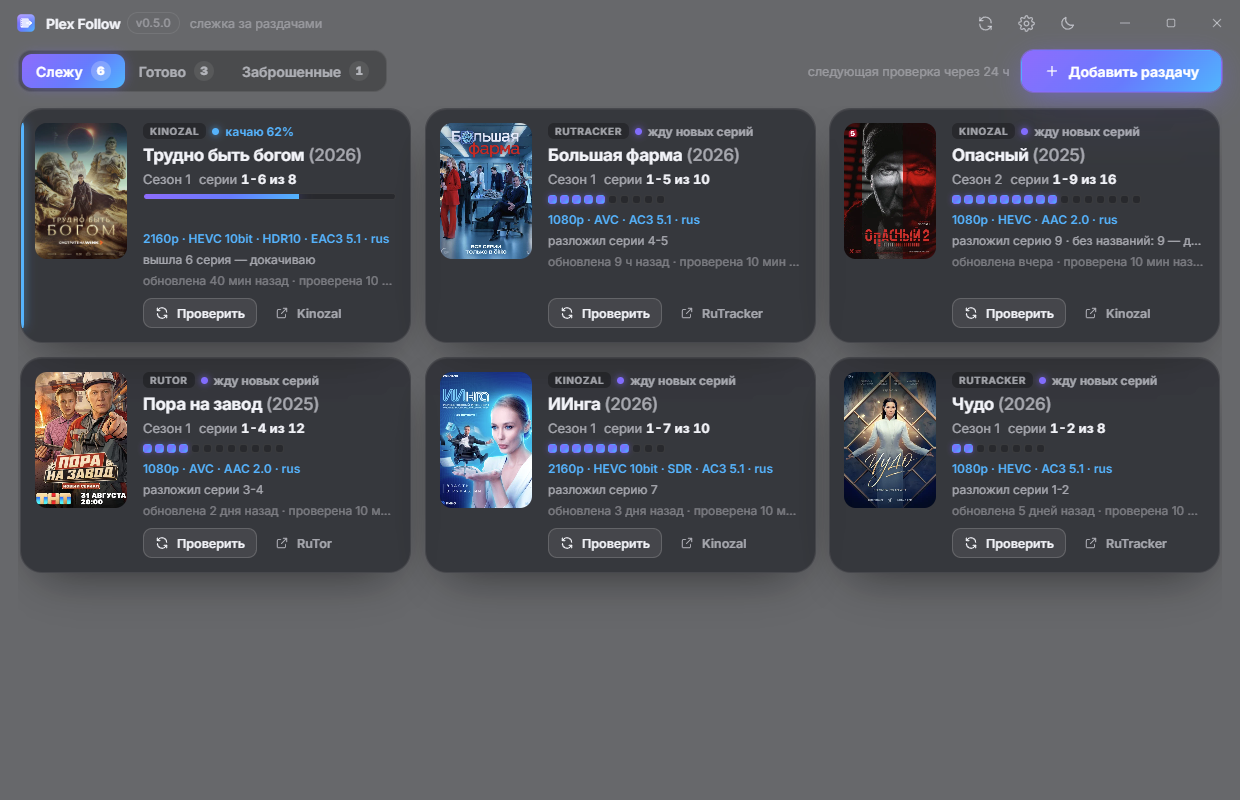
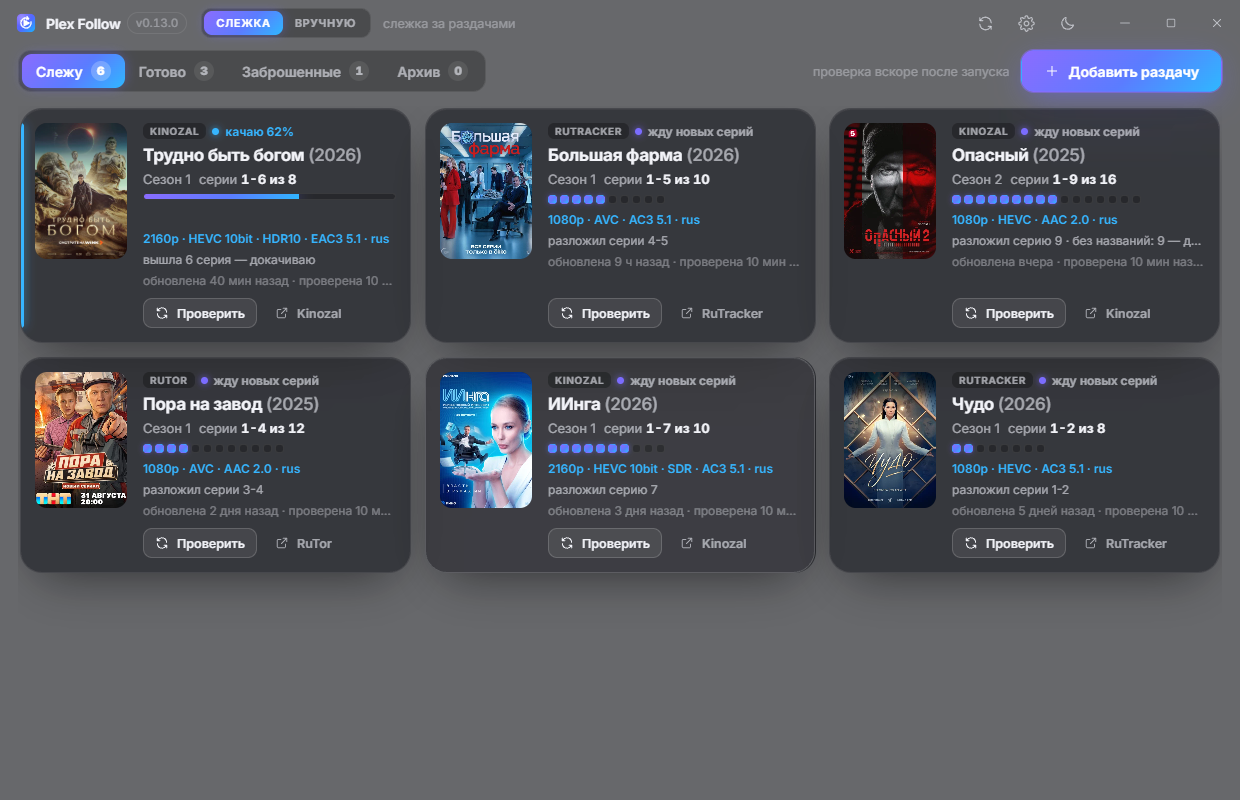
README: режим «Вручную», новые снимки окна

diff --git a/README.md b/README.md
@@ -30,6 +30,9 @@ Plex, Emby и Jellyfin обновляют сериал, а вам приходи
     └── Сериал - S02E09 - Название серии.mkv
 ```
 
+В программе два режима — переключатель в заголовке окна. **Слежка** всё делает сама. **Вручную** — для того, что скачано
+не через слежку: открыли папку, проверили имена и положили в библиотеку. Подробнее — [ниже](#режим-вручную).
+
 ## Что умеет
 
 | | |
@@ -41,6 +44,7 @@ Plex, Emby и Jellyfin обновляют сериал, а вам приходи
 | ↩ **Отмена раскладки** | Сериал опознан неверно? Одна кнопка убирает из библиотеки то, что положила программа; скачанное остаётся в загрузках. Потом — «Разложить заново». |
 | 🧹 **Чистка при отмене** | Перестаёте следить — программа скажет, что осталось в библиотеке, и предложит убрать торрент, скачанное и серии этого сезона. Удобно, когда нашлась раздача в лучшем качестве. |
 | 🎬 **Фильмы** | Ссылка на раздачу фильма — и он в библиотеке. Раздачу заменили версией получше — программа докачает её и заменит фильм, а прежнюю версию сохранит для отката. |
+| ✋ **Режим «Вручную»** | Папка со скачанным сезоном или фильмом — в библиотеку за пару щелчков: программа узнаёт сериал по имени раздачи, даже если оно написано латиницей, расставляет номера и названия серий. С отменой и историей операций. |
 | 🏷 **Профили** | Свои правила для отдельных раздач: другой торрент-клиент, оригинальные или русские названия, своя папка библиотеки. Выбирается при добавлении — в окне или кнопкой в боте. |
 | 🌙 **Работа в фоне** | Живёт в трее, запускается вместе с Windows, может будить компьютер к следующей проверке и не даёт ему уснуть, пока идёт работа. |
 | 🔄 **Автообновление** | Новая версия ставится сама. Обновления подписаны: чужой файл программа не установит. |
@@ -62,6 +66,28 @@ Plex, Emby и Jellyfin обновляют сериал, а вам приходи
 - **Готово** — вышли все серии, всё разложено;
 - **Заброшенные** — раздача давно не обновлялась (по умолчанию 14 дней), а серий ещё не все. Обновится — вернётся в «Слежу»;
 - **Архив** — раздачи, за которыми вы перестали следить, и давно заброшенные. Отсюда их можно вернуть одной кнопкой.
+
+## Режим «Вручную»
+
+Для того, что скачано не через слежку. Перетащите папку с сезоном или фильмом на окно (или нажмите «Обзор…») — программа
+узнает сериал по имени раздачи, даже если оно написано латиницей, найдёт его на Кинопоиске и покажет, как назовёт каждый файл.
+Проверили — и одна кнопка кладёт всё в библиотеку.
+
+<p align="center"><img src="screenshots/manual.png" width="920" alt="Режим «Вручную»: папка раздачи с именами латиницей, сериал найден на Кинопоиске, у каждой серии — новое имя с названием"></p>
+
+- **Что делать с папкой — решаете вы**: положить в библиотеку копию (раздача продолжает раздаваться), перенести или просто
+  переименовать на месте.
+- **Номера и названия серий** — из имён файлов, с Кинопоиска и TVmaze. Спорные строки подсвечены, любой номер можно поправить руками.
+- **Ничего не теряется**: то, что уже лежит в библиотеке, программа покажет и пропустит, а заменяемую версию сохранит.
+  «Отменить последнее» возвращает всё как было, «История» — любую прошлую операцию, если файлы на месте.
+- **Разбор всей папки загрузок** (включается в настройках): все раздачи списком — что готово, что выбрать руками — и обработка
+  готовых разом.
+- **Фильмы** (включается в настройках): `Название (Год) kp-1234567.mkv`.
+- Имена — по тем же шаблонам, что у слежки; после раскладки Plex, Emby и Jellyfin так же обновляют папку.
+
+<p align="center"><img src="screenshots/queue.png" width="640" alt="Разбор папки загрузок: пять раздач, все узнаны по именам и готовы к раскладке"></p>
+
+Торрент-клиент и трекеры этому режиму не нужны — достаточно папки с файлами.
 
 ## Бот в Telegram
 
@@ -92,6 +118,9 @@ Plex, Emby и Jellyfin обновляют сериал, а вам приходи
 3. Откройте нужный трекер в окне программы (Настройки → Трекеры) и войдите в аккаунт.
 4. Добавьте ссылку на раздачу — дальше программа всё делает сама.
 
+Нужен только режим «Вручную»? Хватит первого шага: переключитесь на «Вручную» и перетащите папку на окно.
+Папки библиотеки и ключ Кинопоиска — в настройках, вкладка «Библиотека»; что делать с папкой — на вкладке «Вручную».
+
 > [!NOTE]
 > При первом запуске Windows может показать предупреждение SmartScreen: у установщика нет платной подписи издателя.
 > Нажмите «Подробнее» → «Выполнить в любом случае».
@@ -101,7 +130,7 @@ Plex, Emby и Jellyfin обновляют сериал, а вам приходи
 | Что | Зачем | Обязательно |
 |---|---|:---:|
 | Windows 10 или 11 | больше ничего ставить не нужно | да |
-| Торрент-клиент с веб-интерфейсом | качает раздачи | да |
+| Торрент-клиент с веб-интерфейсом | качает раздачи | для слежки |
 | Доступ к папке загрузок и к папкам библиотеки | программа копирует и переименовывает серии | да |
 | Ключ [Кинопоиска](https://kinopoiskapiunofficial.tech) (бесплатный) | названия серий и номер сериала | желательно |
 | Plex, Emby или Jellyfin | обновляют папку сериала после раскладки; можно все три сразу | нет |
@@ -110,10 +139,11 @@ Plex, Emby и Jellyfin обновляют сериал, а вам приходи
 
 Программа проверяет раздачи, пока запущена — в окне или в трее.
 
-## Вместе с Plex Renamer
+## Plex Renamer
 
-[Plex Renamer](https://github.com/MrJosu/plex-renamer-releases) — та же раскладка вручную: открыли папку со скачанным сезоном,
-проверили и нажали «Переименовать». Пригодится для того, что скачано не через слежку.
+Режим «Вручную» вырос из отдельной программы — [Plex Renamer](https://github.com/MrJosu/plex-renamer-releases).
+Теперь всё, что она умеет, есть здесь, а её настройки и журнал операций Plex Follow забирает сам при первом запуске.
+Plex Renamer остаётся доступным — если нужен только разбор папок, без слежки.
 
 ## Про этот репозиторий
 
